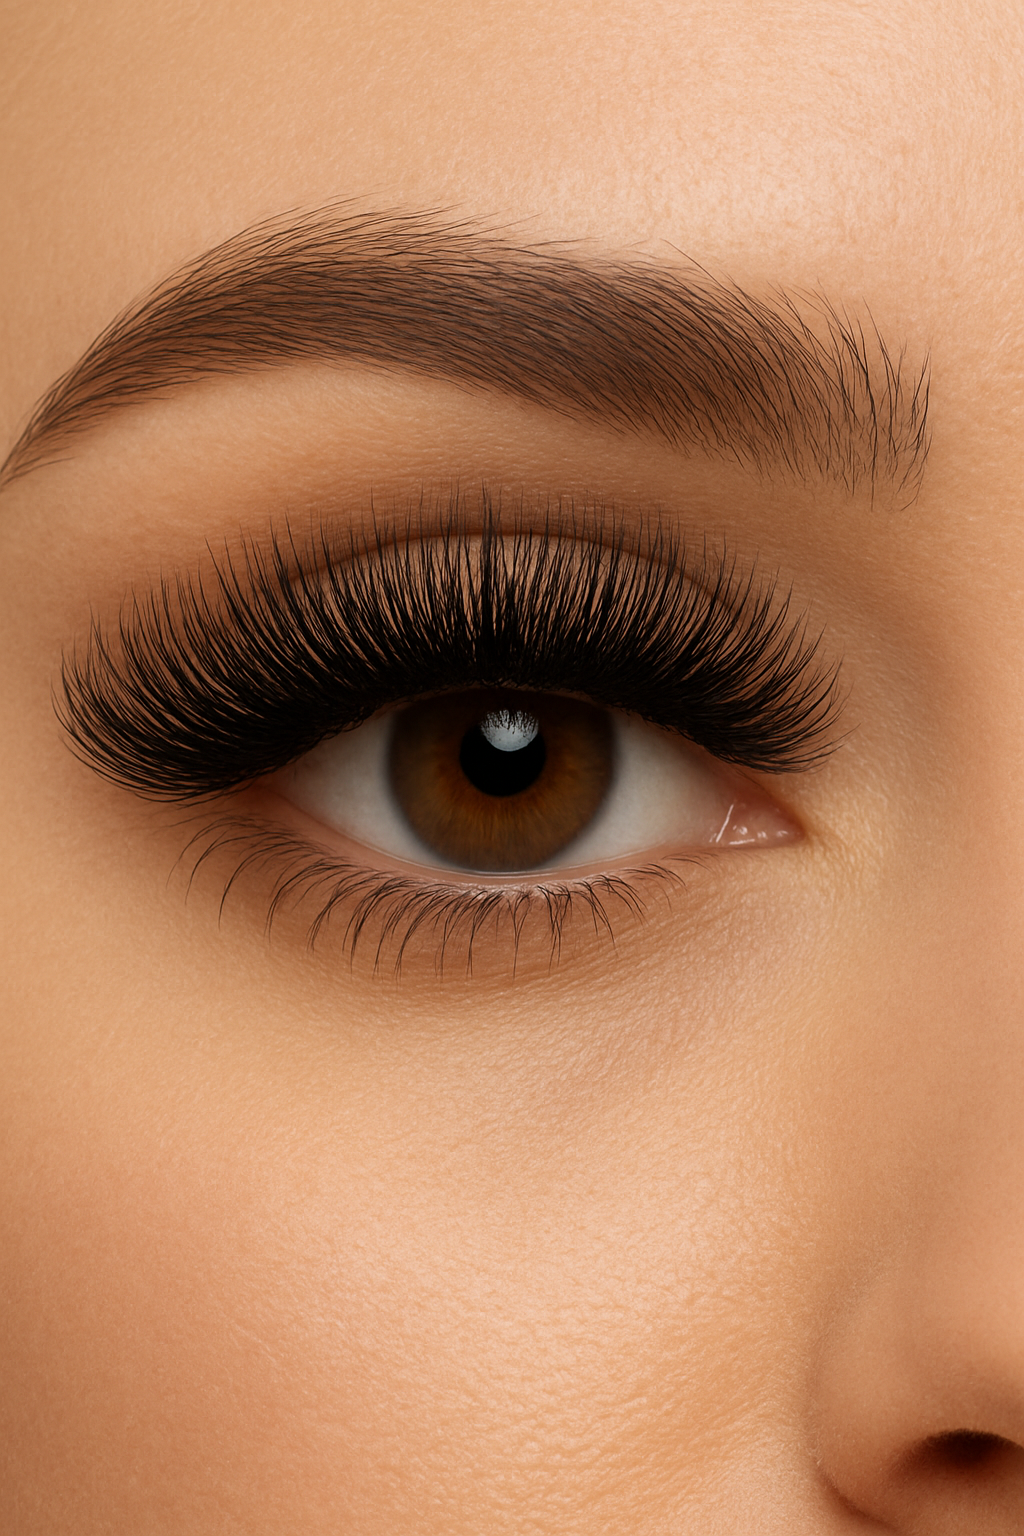
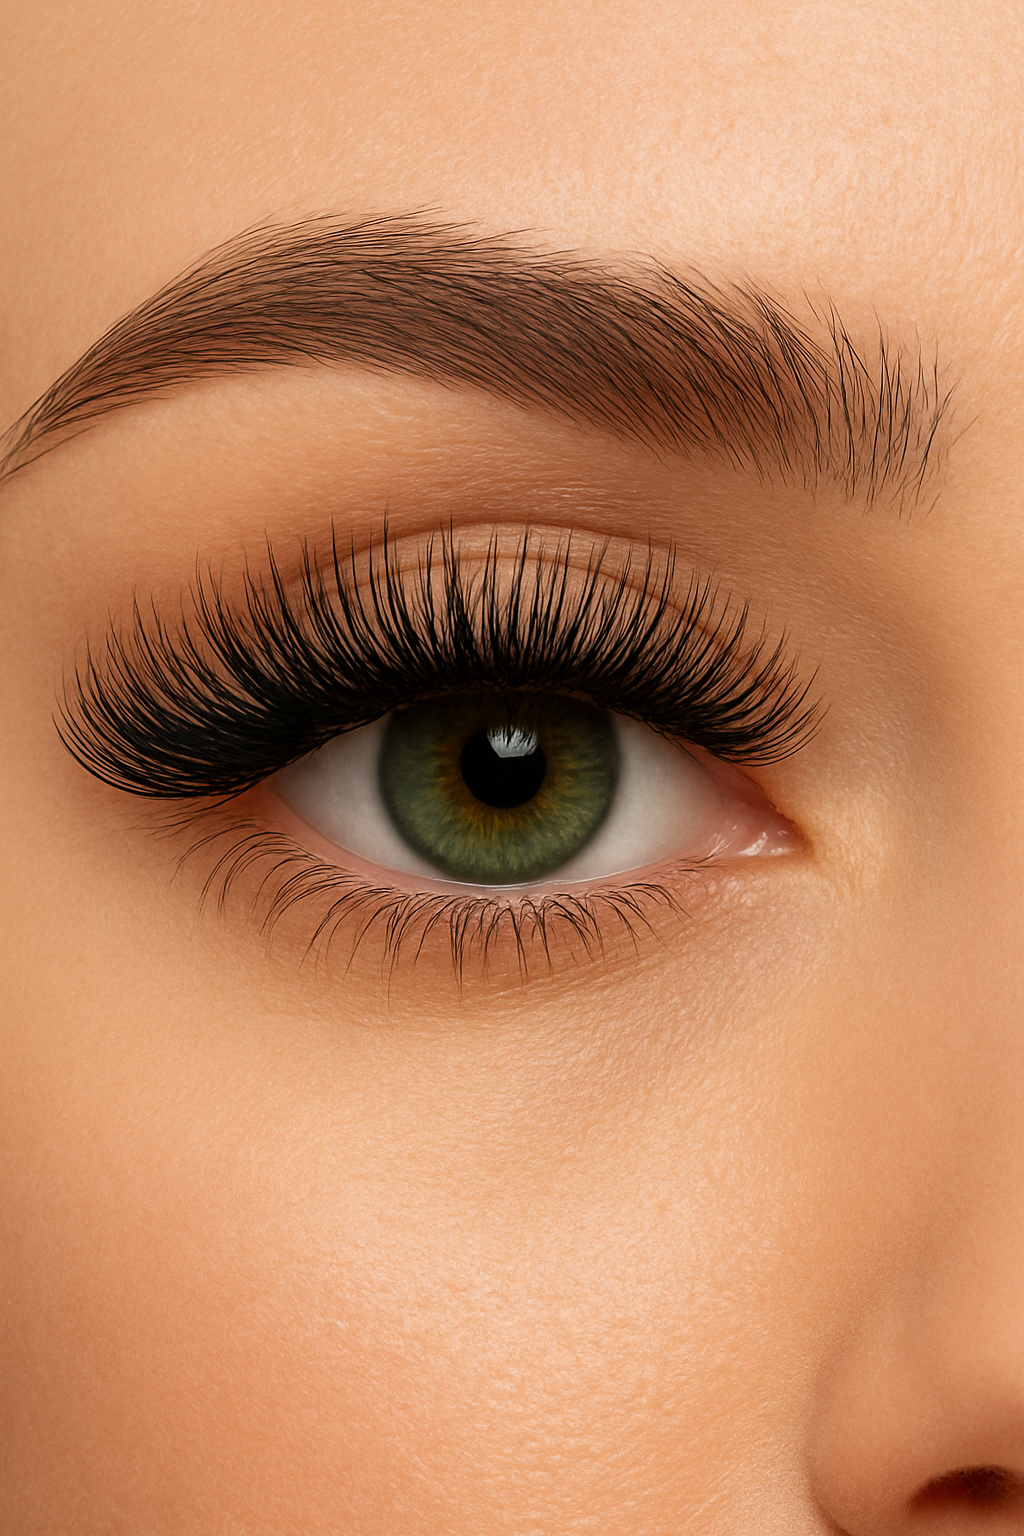
descrição da imagem

diff --git a/index.html b/index.html
@@ -182,7 +182,21 @@
 
             <!-- servicos 1 -->
             <div class="servicos-card">
-                <img src="" alt="">
+
+               <img src="img/servicos/cilios1.png" alt="Olho verde com extensão de cílios volumosos em close-up" class="img-card"/>
+
+               <div class="card-body">
+
+                <h3 class="card-titulo">
+                    Volume russo 3D
+                </h3>
+
+                <p class="card-descricao">
+                    Cílios longos e curvados que realçam o olhar.
+                </p>
+
+
+               </div>
 
             </div>
             <!-- fim projeto 1 -->
